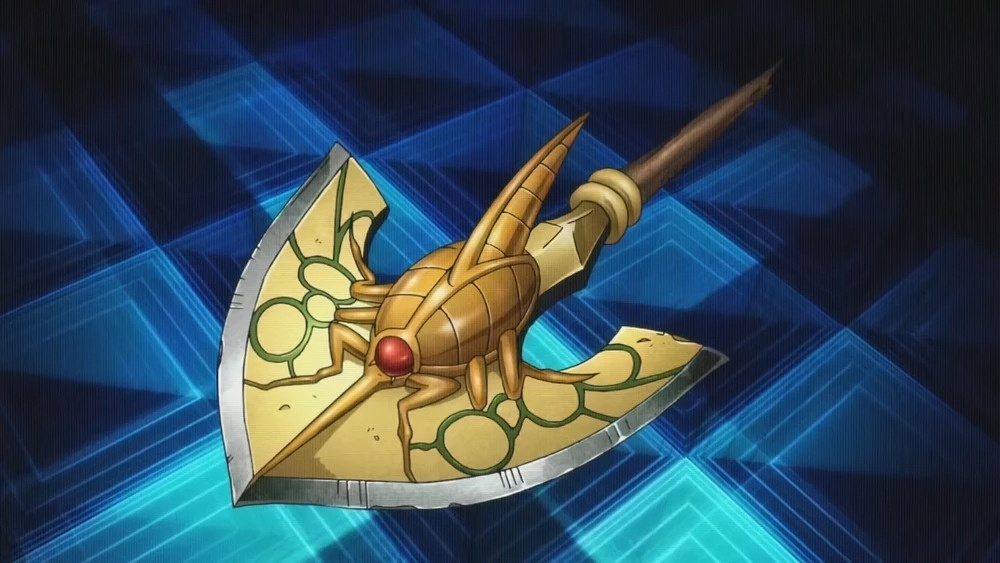
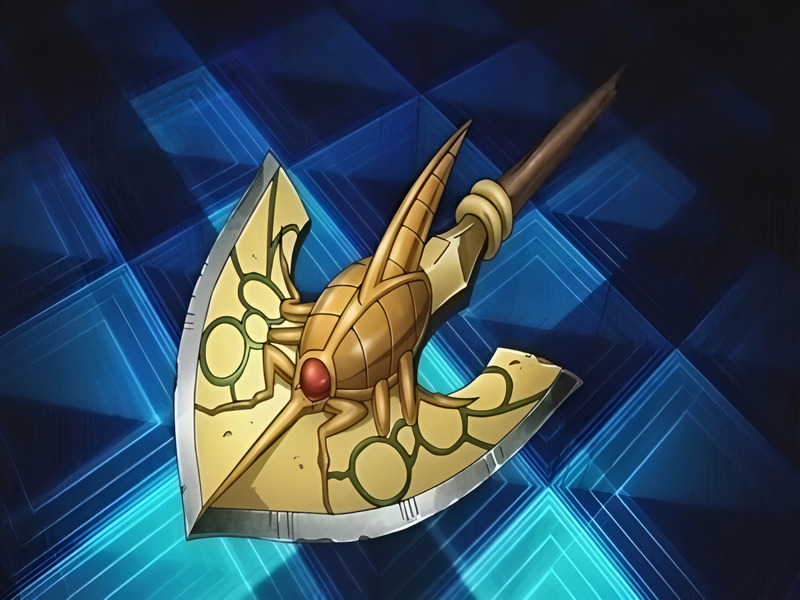
Added desc for product, fix images, added product page to router, and start work with cart page.

diff --git a/shopping-cart-app/src/styles/ProductPage.css b/shopping-cart-app/src/styles/ProductPage.css
@@ -1,0 +1,87 @@
+.product-page-container {
+  display: flex;
+  align-items: center;
+  justify-content: center;
+  gap: 24px;
+  height: 100%;
+  margin-top: var(--header-height);
+}
+
+.product-page {
+  display: flex;
+  justify-content: center;
+  flex-wrap: wrap;
+  gap: 70px;
+  width: 100%;
+}
+
+.product-top {
+  display: flex;
+  flex-direction: column;
+  gap: 0.5rem;
+}
+
+.product-info {
+  display: flex;
+  flex-direction: column;
+  gap: 1rem;
+  width: clamp(125px, 90%, 300px);
+}
+
+.product-price {
+  color: green;
+  font-size: 1.2rem;
+  line-height: 1.6;
+  letter-spacing: 0.5px;
+}
+
+.product-description {
+  font-size: 14px;
+}
+
+.product-page-image {
+  max-width: 100%;
+  max-height: 100%;
+  box-shadow: 0 5px 10px #0000001a;
+  height: min(100vh, 500px);
+  object-fit: cover;
+}
+
+.product-bottom {
+  display: flex;
+  flex-direction: column;
+  gap: 1rem;
+}
+
+.product-cart {
+  display: flex;
+  flex-direction: column;
+  align-items: center;
+  gap: 1rem;
+}
+
+.add-to-cart,
+.go-back {
+  text-transform: uppercase;
+  line-height: 1.5;
+  letter-spacing: 0.15px;
+  font-weight: bold;
+  cursor: pointer;
+}
+
+.add-to-cart {
+  color: white;
+  border: none;
+  background-color: #612dae;
+  padding: 6px 16px;
+  border-radius: 2px;
+  width: 100%;
+  max-width: 285px;
+}
+
+.go-back {
+  color: black;
+  width: fit-content;
+  background-color: transparent;
+  border: none;
+}

diff --git a/shopping-cart-app/src/components/Quantity.jsx b/shopping-cart-app/src/components/Quantity.jsx
@@ -1,3 +1,7 @@
+import Minus from '../assets/minus.svg'
+import Plus from '../assets/plus.svg'
+import '../styles/Quantity.css'
+
 export default function Quantity({
   quantity,
   onIncrement,
@@ -13,7 +17,7 @@ export default function Quantity({
         onClick={onDecrement}
         aria-label="decrement"
         type="button">
-          <i className="fa-solid fa-minus" />
+          <img src={Minus} alt="minus" />
       </button>
 
       <input
@@ -25,6 +29,7 @@ export default function Quantity({
         onChange={onInputChange}
         autoComplete="off"
         inputMode="numeric"
+        disabled
       />
 
       <button
@@ -33,7 +38,7 @@ export default function Quantity({
         onClick={onIncrement}
         type="button"
       >
-        <i className="fa-solid fa-plus" />
+        <img src={Plus} alt="plus" />
       </button>
     </div>
   )

diff --git a/shopping-cart-app/src/App.jsx b/shopping-cart-app/src/App.jsx
@@ -8,20 +8,15 @@ import Home from './pages/Home'
 import NavBar from './components/NavBar'
 import NotFound from './pages/NotFound'
 import Store from './pages/Store'
-import Cart from './pages/Cart'
 import ProductPage from './pages/ProductPage'
-
+import Cart from './pages/Cart'
 
 const router = createBrowserRouter(
   createRoutesFromElements(
     <Route path="/" element={<NavBar />}>
       <Route index element={<Home />} />
-      <Route path='store' element={<Store/>}>
-        <Route 
-          path=":id" 
-          element={<ProductPage />}
-        />
-      </Route>
+      <Route path='store' element={<Store/>} />
+      <Route path='store/:id' element={<ProductPage />} />
       <Route path='cart' element={<Cart/>}/>
       <Route path="*" element={<NotFound />} />
     </Route>

diff --git a/shopping-cart-app/src/pages/ProductPage.jsx b/shopping-cart-app/src/pages/ProductPage.jsx
@@ -1,8 +1,11 @@
 import { useState } from "react";
-import { useNavigate } from "react-router-dom";
+import { useNavigate, useLocation } from "react-router-dom";
 import Quantity from '../components/Quantity'
+import '../styles/ProductPage.css'
 
-export default function ProductPage({ product, onAddToCart}) {
+export default function ProductPage({ onAddToCart}) {
+  const { state } = useLocation();
+  const product = state?.product;
   const [quantity, setQuantity] = useState(1);
   const navigate = useNavigate();
   const onInputChange = (value) => setQuantity(value === "" ? value : +value);

diff --git a/shopping-cart-app/src/styles/Quantity.css b/shopping-cart-app/src/styles/Quantity.css
@@ -1,0 +1,27 @@
+.quantity-counter {
+  display: flex;
+  gap: 0.5rem;
+}
+
+
+.increment,
+.decrement {
+  display: flex;
+  align-items: center;
+  background-color: transparent;
+  border: none;
+}
+
+.increment img,
+.decrement img {
+ width: 2rem;
+}
+
+.quantity-input {
+  width: 3rem;
+  height: 2rem;
+  text-align: center;
+  color: black;
+  font-size: 1.1rem;
+  font-weight: bold;
+}

diff --git a/shopping-cart-app/src/components/ProductItem.jsx b/shopping-cart-app/src/components/ProductItem.jsx
@@ -2,7 +2,7 @@ import { Link } from 'react-router-dom'
 
 export default function ProductItem({ product }) {
   return (
-    <Link className='store-item' to={product.path}>
+    <Link className='store-item' to={product.path} state={{ product }}>
       <div className='product-image-container'>
         <img src={product.image} alt={product.name} className="product-image" />
       </div>
